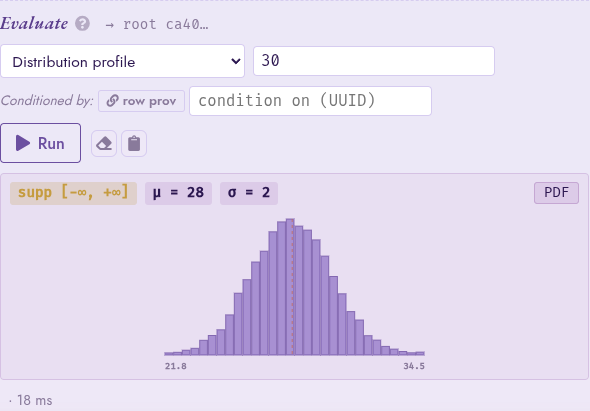
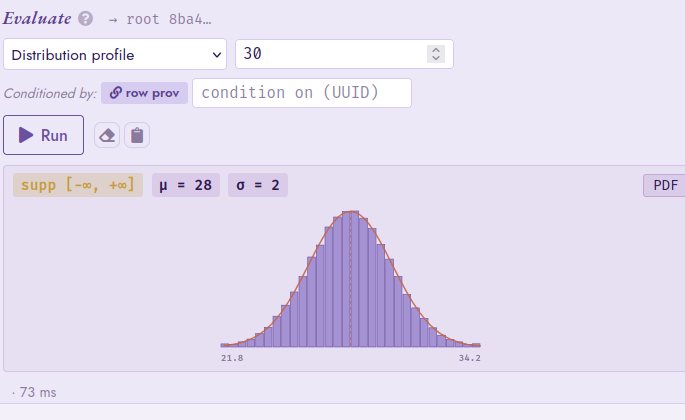
doc: refresh distribution-profile screenshot to show the PDF overlay

diff --git a/doc/source/user/studio.rst b/doc/source/user/studio.rst
@@ -404,13 +404,15 @@ the right.
 
 .. figure:: /_static/studio/distribution-profile.png
    :alt: The eval-strip Distribution profile panel showing the
-         support interval, the mean and standard deviation, and
-         an inline-SVG histogram of the sub-circuit's
-         distribution.
+         support interval, the mean and standard deviation, an
+         inline-SVG histogram of the sub-circuit's distribution,
+         and the analytical Normal(28, 2) PDF curve overlaid on
+         the MC bars.
 
    The *Distribution profile* eval-strip panel on a ``gate_rv``
    ``N(28, 2)`` leaf: header stats (support, :math:`\mu`,
-   :math:`\sigma`), an inline-SVG histogram, and a PDF/CDF
+   :math:`\sigma`), an inline-SVG histogram with the analytical
+   PDF overlaid as a smooth terracotta curve, and a PDF/CDF
    toggle on the right.
 
 The same group hosts a *Sample* entry that draws raw samples
